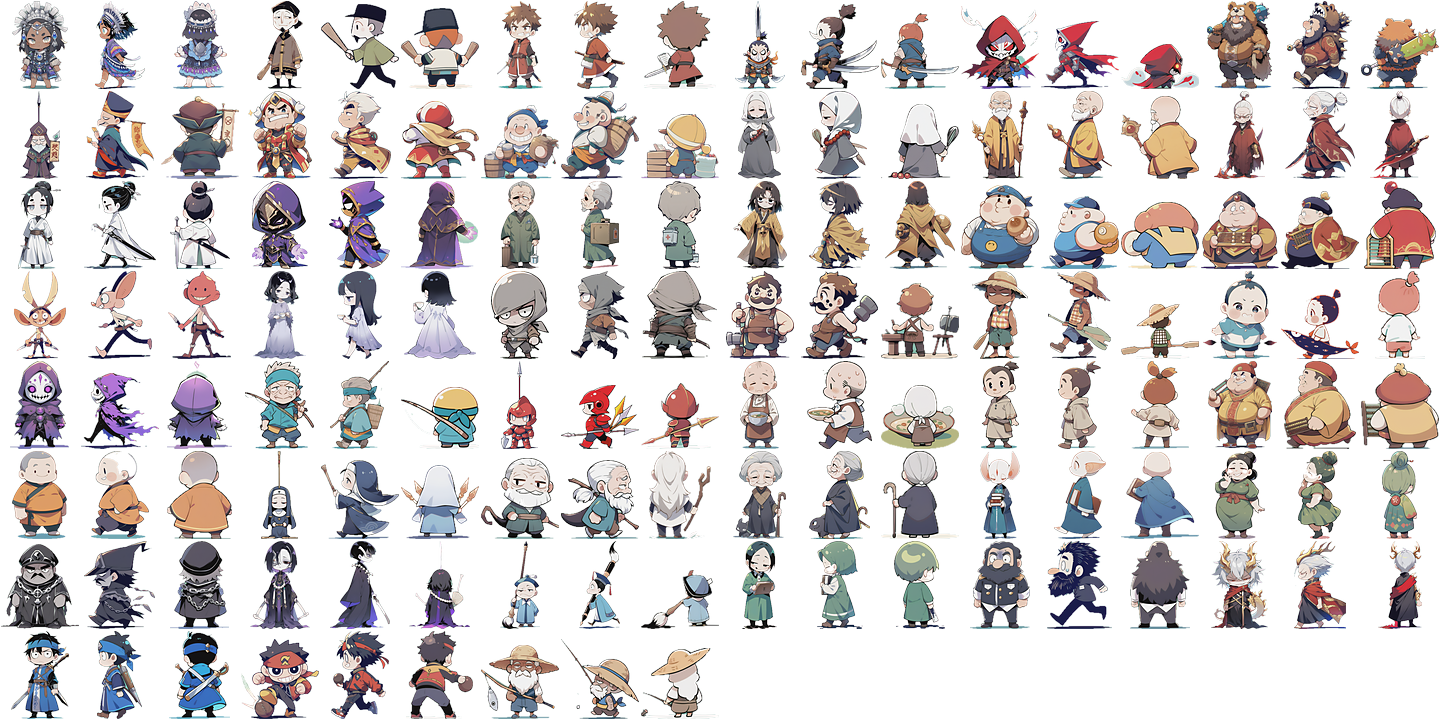
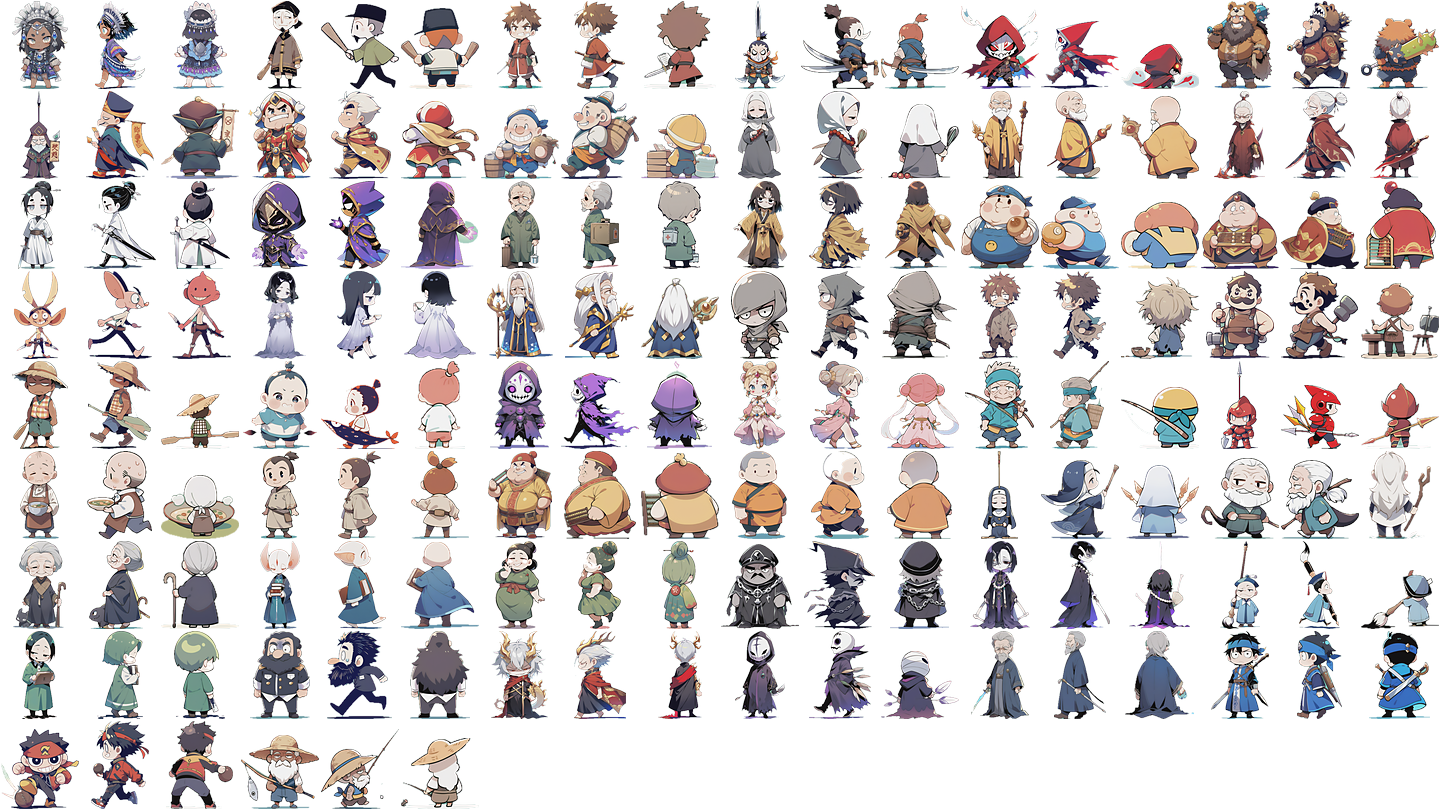
Painted side views all face the same way
ai_chibi.py turns every side view to face right (the back of a chibi's head outweighs the face, which tells which
way it looks); the map mirrors them to walk the right way.

diff --git a/js/ai_art.js b/js/ai_art.js
@@ -1,2 +1,2 @@
 // Made by tools/ai_pack.py from the AI-painted art: rects into assets/ai/. Do not edit by hand.
-export const AI = {"acolyte":{"p":[0,0]},"aman":{"p":[128,0],"s":[0,0],"c":[0,0]},"ape":{"p":[256,0]},"archer":{"p":[384,0],"s":[192,0]},"assassin":{"p":[512,0],"s":[384,0]},"baixian":{"p":[640,0],"c":[240,0]},"bamboosprite":{"p":[768,0]},"bambooviper":{"p":[896,0],"s":[576,0]},"bellfire":{"p":[1024,0]},"bellguard":{"p":[1152,0]},"bellpuppet":{"p":[1280,0]},"blackbone":{"p":[1408,0],"s":[768,0]},"blackdaoist":{"p":[1536,0]},"bloodbat":{"p":[0,128],"s":[960,0]},"bloodthug":{"p":[128,128],"s":[0,88]},"bloodwolf":{"p":[256,128],"s":[192,88]},"bronzejiangshi":{"p":[384,128],"s":[384,88]},"bronzeman":{"p":[512,128],"s":[576,88]},"cavebat":{"p":[640,128],"s":[768,88]},"centipede":{"p":[768,128],"s":[960,88]},"chengyuanzhi":{"p":[896,128]},"chutiankuo":{"p":[1024,128],"s":[0,176],"c":[480,0]},"coldpool":{"p":[1152,128],"s":[192,176]},"crow":{"p":[1280,128]},"cudgeler":{"p":[1408,128],"s":[384,176]},"daoba":{"p":[1536,128],"s":[576,176],"c":[720,0]},"daoist":{"p":[0,256],"s":[768,176]},"deadwood":{"p":[128,256],"s":[960,176]},"drowned":{"p":[256,256],"s":[0,264]},"dummy":{"p":[384,256]},"erin":{"p":[512,256]},"firehornet":{"p":[640,256]},"fox":{"p":[768,256]},"frostwolf":{"p":[896,256],"s":[192,264]},"ghosthornet":{"p":[1024,256],"s":[384,264]},"glowcap":{"p":[1152,256]},"goldbone":{"p":[1280,256]},"goldcentipede":{"p":[1408,256],"s":[576,264]},"goldmonkey":{"p":[1536,256],"s":[768,264]},"goldsnake":{"p":[0,384]},"greatbell":{"p":[128,384]},"greywolf":{"p":[256,384],"s":[960,264]},"guanyu":{"p":[384,384]},"guimian":{"p":[512,384],"s":[0,352],"c":[960,0]},"heixiong":{"p":[640,384],"c":[1200,0]},"huaxiong":{"p":[768,384]},"hubanxian":{"p":[896,384],"s":[192,352],"c":[0,90]},"huotianxia":{"p":[1024,384],"s":[384,352],"c":[240,90]},"icebat":{"p":[1152,384]},"iceboar":{"p":[1280,384]},"icejiangshi":{"p":[1408,384]},"inkscorpion":{"p":[1536,384],"s":[576,352]},"inkspirit":{"p":[0,512],"s":[768,352]},"ironboar":{"p":[128,512],"s":[960,352]},"ironcrab":{"p":[256,512]},"irondummy":{"p":[384,512]},"ironmonk":{"p":[512,512],"s":[0,440]},"jadetoad":{"p":[640,512]},"jasper":{"p":[768,512]},"jeff":{"p":[896,512]},"jiabafang":{"p":[1024,512],"s":[192,440],"c":[480,90]},"jiangshi":{"p":[1152,512]},"jiao":{"p":[1280,512]},"jiling":{"p":[1408,512]},"jingci":{"p":[1536,512],"c":[720,90]},"josh":{"p":[0,640]},"kuchan":{"p":[128,640],"s":[384,440],"c":[960,90]},"lackey":{"p":[256,640],"s":[576,440]},"lavacrab":{"p":[384,640]},"lavascorpion":{"p":[512,640]},"lavawolf":{"p":[640,640]},"lihanshan":{"p":[768,640],"s":[768,440],"c":[1200,90]},"lion":{"p":[896,640]},"littlejiangshi":{"p":[1024,640],"s":[960,440]},"liuhanyan":{"p":[1152,640],"c":[0,180]},"lotusghost":{"p":[1280,640]},"lubu":{"p":[1408,640]},"masked":{"p":[1536,640],"s":[0,528],"c":[240,180]},"mojide":{"p":[0,768],"s":[192,528],"c":[480,180]},"mountainmonkey":{"p":[128,768],"s":[384,528]},"mowuya":{"p":[256,768],"s":[576,528],"c":[720,180]},"mudspirit":{"p":[384,768]},"netherarcher":{"p":[512,768],"s":[768,528]},"netherassassin":{"p":[640,768]},"netherflame":{"p":[768,768],"s":[960,528]},"niubaobao":{"p":[896,768],"s":[0,616],"c":[960,180]},"papereffigy":{"p":[1024,768]},"pirate":{"p":[1152,768]},"qianwanli":{"p":[1280,768],"c":[1200,180]},"redpaper":{"p":[1408,768]},"redsnake":{"p":[1536,768],"s":[192,616]},"rivercrab":{"p":[0,896],"s":[384,616]},"roguemonk":{"p":[128,896]},"sandscorpion":{"p":[256,896],"s":[576,616]},"shanxiao":{"p":[384,896]},"shouhou":{"p":[512,896],"s":[768,616],"c":[0,270]},"skeleton":{"p":[640,896],"s":[960,616]},"snowmonkey":{"p":[768,896]},"snowsprite":{"p":[896,896]},"stonetoad":{"p":[1024,896],"s":[0,704]},"suxiaowan":{"p":[1152,896],"s":[192,704],"c":[240,270]},"sx_archer":{"p":[1280,896]},"sx_bl_palm":{"p":[1408,896],"s":[384,704]},"sx_crossbow":{"p":[1536,896],"s":[576,704]},"sx_cy_nun":{"p":[0,1024],"s":[768,704]},"sx_daoist":{"p":[128,1024],"s":[960,704]},"sx_disciple":{"p":[256,1024],"s":[0,792]},"sx_founder":{"p":[384,1024]},"sx_grandmaster":{"p":[512,1024]},"sx_hf_club":{"p":[640,1024]},"sx_hidden":{"p":[768,1024],"s":[192,792]},"sx_hj_sword":{"p":[896,1024]},"sx_inner":{"p":[1024,1024],"s":[384,792]},"sx_lm_saber":{"p":[1152,1024],"s":[576,792]},"sx_master":{"p":[1280,1024],"s":[768,792]},"sx_phantom":{"p":[1408,1024],"s":[960,792]},"sx_physician":{"p":[1536,1024]},"sx_physician_f":{"p":[0,1152]},"sx_poison":{"p":[128,1152],"s":[0,880]},"sx_qf_monk":{"p":[256,1152],"s":[192,880]},"sx_qin":{"p":[384,1152]},"sx_qin_f":{"p":[512,1152],"s":[384,880]},"sx_saber":{"p":[640,1152],"s":[576,880]},"sx_scholar":{"p":[768,1152]},"sx_scout":{"p":[896,1152],"s":[768,880]},"sx_smith":{"p":[1024,1152],"s":[960,880]},"sx_spear":{"p":[1152,1152],"s":[0,968]},"sx_starbow":{"p":[1280,1152],"s":[192,968]},"sx_strategist":{"p":[1408,1152],"s":[384,968]},"sx_sword":{"p":[1536,1152],"s":[576,968]},"sx_swordform":{"p":[0,1280]},"sx_teller":{"p":[128,1280]},"sx_thief":{"p":[256,1280],"s":[768,968]},"sx_xd_blood":{"p":[384,1280],"s":[960,968]},"sx_ym_assassin":{"p":[512,1280],"s":[0,1056]},"sx_yy_tiger":{"p":[640,1280],"s":[192,1056]},"sx_zf_chain":{"p":[768,1280],"s":[384,1056]},"tf_bandit":{"p":[896,1280],"s":[576,1056],"c":[480,270]},"tf_beggar":{"p":[1024,1280],"s":[768,1056]},"tf_blacksmith":{"p":[1152,1280],"s":[960,1056],"c":[720,270]},"tf_boatman":{"p":[1280,1280],"s":[0,1144],"c":[960,270]},"tf_child":{"p":[1408,1280],"s":[192,1144],"c":[1200,270]},"tf_cultist":{"p":[1536,1280],"s":[384,1144],"c":[0,360]},"tf_dancer":{"p":[0,1408],"s":[576,1144]},"tf_fisherman":{"p":[128,1408],"s":[768,1144],"c":[240,360]},"tf_guard":{"p":[256,1408],"s":[960,1144],"c":[480,360]},"tf_innkeeper":{"p":[384,1408],"s":[0,1232],"c":[720,360]},"tf_man":{"p":[512,1408],"c":[960,360]},"tf_merchant":{"p":[640,1408],"c":[1200,360]},"tf_monk":{"p":[768,1408],"s":[192,1232],"c":[0,450]},"tf_nun":{"p":[896,1408],"s":[384,1232],"c":[240,450]},"tf_oldman":{"p":[1024,1408],"s":[576,1232],"c":[480,450]},"tf_oldwoman":{"p":[1152,1408],"s":[768,1232],"c":[720,450]},"tf_scholar":{"p":[1280,1408],"s":[960,1232],"c":[960,450]},"tf_woman":{"p":[1408,1408],"s":[0,1320],"c":[1200,450]},"thundersprite":{"p":[1536,1408],"s":[192,1320]},"tiewusi":{"p":[0,1536],"s":[384,1320],"c":[0,540]},"tiger":{"p":[128,1536]},"tigerhornet":{"p":[256,1536]},"toad":{"p":[384,1536]},"toadstool":{"p":[512,1536],"s":[576,1320]},"treesprite":{"p":[640,1536],"s":[768,1320]},"tuqianqiu":{"p":[768,1536],"s":[960,1320],"c":[240,540]},"vajraguardian":{"p":[896,1536],"s":[0,1408]},"wenchou":{"p":[1024,1536]},"wenduizhang":{"p":[1152,1536],"c":[480,540]},"wenruyu":{"p":[1280,1536],"s":[192,1408],"c":[720,540]},"wildboar":{"p":[1408,1536],"s":[384,1408]},"windsprite":{"p":[1536,1536],"s":[576,1408]},"wisp":{"p":[0,1664],"s":[768,1408]},"wudadan":{"p":[128,1664],"c":[960,540]},"xiahoudun":{"p":[256,1664]},"xiaolian":{"p":[384,1664]},"xiaotian":{"p":[512,1664],"s":[960,1408],"c":[1200,540]},"xiaowuying":{"p":[640,1664],"s":[0,1496]},"yanliang":{"p":[768,1664]},"yichangfeng":{"p":[896,1664]},"yirui":{"p":[1024,1664],"s":[192,1496],"c":[0,630]},"yishuo":{"p":[1152,1664],"s":[384,1496],"c":[240,630]},"yuweng":{"p":[1280,1664],"c":[480,630]},"zhangbao":{"p":[1408,1664]},"zhangliao":{"p":[1536,1664]}};
+export const AI = {"acolyte":{"p":[0,0]},"aman":{"p":[128,0],"s":[0,0],"c":[0,0]},"ape":{"p":[256,0]},"archer":{"p":[384,0],"s":[192,0]},"assassin":{"p":[512,0],"s":[384,0]},"baixian":{"p":[640,0],"c":[240,0]},"bamboosprite":{"p":[768,0]},"bambooviper":{"p":[896,0],"s":[576,0]},"bellfire":{"p":[1024,0]},"bellguard":{"p":[1152,0]},"bellpuppet":{"p":[1280,0]},"blackbone":{"p":[1408,0],"s":[768,0]},"blackdaoist":{"p":[1536,0]},"bloodbat":{"p":[0,128],"s":[960,0]},"bloodthug":{"p":[128,128],"s":[0,88]},"bloodwolf":{"p":[256,128],"s":[192,88]},"bronzejiangshi":{"p":[384,128],"s":[384,88]},"bronzeman":{"p":[512,128],"s":[576,88]},"cavebat":{"p":[640,128],"s":[768,88]},"centipede":{"p":[768,128],"s":[960,88]},"chengyuanzhi":{"p":[896,128]},"chutiankuo":{"p":[1024,128],"s":[0,176],"c":[480,0]},"coldpool":{"p":[1152,128],"s":[192,176]},"crow":{"p":[1280,128]},"cudgeler":{"p":[1408,128],"s":[384,176]},"daoba":{"p":[1536,128],"s":[576,176],"c":[720,0]},"daoist":{"p":[0,256],"s":[768,176]},"deadwood":{"p":[128,256],"s":[960,176]},"drowned":{"p":[256,256],"s":[0,264]},"dummy":{"p":[384,256]},"erin":{"p":[512,256]},"firehornet":{"p":[640,256]},"fox":{"p":[768,256]},"frostwolf":{"p":[896,256],"s":[192,264]},"ghosthornet":{"p":[1024,256],"s":[384,264]},"glowcap":{"p":[1152,256]},"goldbone":{"p":[1280,256]},"goldcentipede":{"p":[1408,256],"s":[576,264]},"goldmonkey":{"p":[1536,256],"s":[768,264]},"goldsnake":{"p":[0,384]},"greatbell":{"p":[128,384]},"greywolf":{"p":[256,384],"s":[960,264]},"guanyu":{"p":[384,384]},"guimian":{"p":[512,384],"s":[0,352],"c":[960,0]},"heixiong":{"p":[640,384],"c":[1200,0]},"huaxiong":{"p":[768,384]},"hubanxian":{"p":[896,384],"s":[192,352],"c":[0,90]},"huotianxia":{"p":[1024,384],"s":[384,352],"c":[240,90]},"icebat":{"p":[1152,384]},"iceboar":{"p":[1280,384]},"icejiangshi":{"p":[1408,384]},"inkscorpion":{"p":[1536,384],"s":[576,352]},"inkspirit":{"p":[0,512],"s":[768,352]},"ironboar":{"p":[128,512],"s":[960,352]},"ironcrab":{"p":[256,512]},"irondummy":{"p":[384,512]},"ironmonk":{"p":[512,512],"s":[0,440]},"jadetoad":{"p":[640,512]},"jasper":{"p":[768,512]},"jeff":{"p":[896,512]},"jiabafang":{"p":[1024,512],"s":[192,440],"c":[480,90]},"jiangshi":{"p":[1152,512]},"jiao":{"p":[1280,512]},"jiling":{"p":[1408,512]},"jingci":{"p":[1536,512],"c":[720,90]},"josh":{"p":[0,640]},"kuchan":{"p":[128,640],"s":[384,440],"c":[960,90]},"lackey":{"p":[256,640],"s":[576,440]},"lavacrab":{"p":[384,640]},"lavascorpion":{"p":[512,640]},"lavawolf":{"p":[640,640]},"lihanshan":{"p":[768,640],"s":[768,440],"c":[1200,90]},"lion":{"p":[896,640]},"littlejiangshi":{"p":[1024,640],"s":[960,440]},"liuhanyan":{"p":[1152,640],"c":[0,180]},"lotusghost":{"p":[1280,640]},"lubu":{"p":[1408,640]},"masked":{"p":[1536,640],"s":[0,528],"c":[240,180]},"mojide":{"p":[0,768],"s":[192,528],"c":[480,180]},"mountainmonkey":{"p":[128,768],"s":[384,528]},"mowuya":{"p":[256,768],"s":[576,528],"c":[720,180]},"mudspirit":{"p":[384,768]},"netherarcher":{"p":[512,768],"s":[768,528]},"netherassassin":{"p":[640,768]},"netherflame":{"p":[768,768],"s":[960,528]},"niubaobao":{"p":[896,768],"s":[0,616],"c":[960,180]},"papereffigy":{"p":[1024,768]},"pirate":{"p":[1152,768]},"qianwanli":{"p":[1280,768],"c":[1200,180]},"redpaper":{"p":[1408,768]},"redsnake":{"p":[1536,768],"s":[192,616]},"rivercrab":{"p":[0,896],"s":[384,616]},"roguemonk":{"p":[128,896]},"sandscorpion":{"p":[256,896],"s":[576,616]},"shanxiao":{"p":[384,896]},"shouhou":{"p":[512,896],"s":[768,616],"c":[0,270]},"skeleton":{"p":[640,896],"s":[960,616]},"snowmonkey":{"p":[768,896]},"snowsprite":{"p":[896,896]},"stonetoad":{"p":[1024,896],"s":[0,704]},"suxiaowan":{"p":[1152,896],"s":[192,704],"c":[240,270]},"sx_archer":{"p":[1280,896]},"sx_bl_palm":{"p":[1408,896],"s":[384,704]},"sx_crossbow":{"p":[1536,896],"s":[576,704]},"sx_cy_nun":{"p":[0,1024],"s":[768,704]},"sx_daoist":{"p":[128,1024],"s":[960,704]},"sx_disciple":{"p":[256,1024],"s":[0,792]},"sx_founder":{"p":[384,1024]},"sx_grandmaster":{"p":[512,1024],"c":[480,270]},"sx_hf_club":{"p":[640,1024]},"sx_hidden":{"p":[768,1024],"s":[192,792]},"sx_hj_sword":{"p":[896,1024]},"sx_inner":{"p":[1024,1024],"s":[384,792]},"sx_lm_saber":{"p":[1152,1024],"s":[576,792]},"sx_master":{"p":[1280,1024],"s":[768,792]},"sx_phantom":{"p":[1408,1024],"s":[960,792]},"sx_physician":{"p":[1536,1024]},"sx_physician_f":{"p":[0,1152]},"sx_poison":{"p":[128,1152],"s":[0,880]},"sx_qf_monk":{"p":[256,1152],"s":[192,880]},"sx_qin":{"p":[384,1152]},"sx_qin_f":{"p":[512,1152],"s":[384,880]},"sx_saber":{"p":[640,1152],"s":[576,880]},"sx_scholar":{"p":[768,1152]},"sx_scout":{"p":[896,1152],"s":[768,880]},"sx_smith":{"p":[1024,1152],"s":[960,880]},"sx_spear":{"p":[1152,1152],"s":[0,968]},"sx_starbow":{"p":[1280,1152],"s":[192,968]},"sx_strategist":{"p":[1408,1152],"s":[384,968]},"sx_sword":{"p":[1536,1152],"s":[576,968]},"sx_swordform":{"p":[0,1280]},"sx_teller":{"p":[128,1280]},"sx_thief":{"p":[256,1280],"s":[768,968]},"sx_xd_blood":{"p":[384,1280],"s":[960,968]},"sx_ym_assassin":{"p":[512,1280],"s":[0,1056]},"sx_yy_tiger":{"p":[640,1280],"s":[192,1056]},"sx_zf_chain":{"p":[768,1280],"s":[384,1056]},"tf_bandit":{"p":[896,1280],"s":[576,1056],"c":[720,270]},"tf_beggar":{"p":[1024,1280],"s":[768,1056],"c":[960,270]},"tf_blacksmith":{"p":[1152,1280],"s":[960,1056],"c":[1200,270]},"tf_boatman":{"p":[1280,1280],"s":[0,1144],"c":[0,360]},"tf_child":{"p":[1408,1280],"s":[192,1144],"c":[240,360]},"tf_cultist":{"p":[1536,1280],"s":[384,1144],"c":[480,360]},"tf_dancer":{"p":[0,1408],"s":[576,1144],"c":[720,360]},"tf_fisherman":{"p":[128,1408],"s":[768,1144],"c":[960,360]},"tf_guard":{"p":[256,1408],"s":[960,1144],"c":[1200,360]},"tf_innkeeper":{"p":[384,1408],"s":[0,1232],"c":[0,450]},"tf_man":{"p":[512,1408],"c":[240,450]},"tf_merchant":{"p":[640,1408],"c":[480,450]},"tf_monk":{"p":[768,1408],"s":[192,1232],"c":[720,450]},"tf_nun":{"p":[896,1408],"s":[384,1232],"c":[960,450]},"tf_oldman":{"p":[1024,1408],"s":[576,1232],"c":[1200,450]},"tf_oldwoman":{"p":[1152,1408],"s":[768,1232],"c":[0,540]},"tf_scholar":{"p":[1280,1408],"s":[960,1232],"c":[240,540]},"tf_woman":{"p":[1408,1408],"s":[0,1320],"c":[480,540]},"thundersprite":{"p":[1536,1408],"s":[192,1320]},"tiewusi":{"p":[0,1536],"s":[384,1320],"c":[720,540]},"tiger":{"p":[128,1536]},"tigerhornet":{"p":[256,1536]},"toad":{"p":[384,1536]},"toadstool":{"p":[512,1536],"s":[576,1320]},"treesprite":{"p":[640,1536],"s":[768,1320]},"tuqianqiu":{"p":[768,1536],"s":[960,1320],"c":[960,540]},"vajraguardian":{"p":[896,1536],"s":[0,1408]},"wenchou":{"p":[1024,1536]},"wenduizhang":{"p":[1152,1536],"c":[1200,540]},"wenruyu":{"p":[1280,1536],"s":[192,1408],"c":[0,630]},"wildboar":{"p":[1408,1536],"s":[384,1408]},"windsprite":{"p":[1536,1536],"s":[576,1408]},"wisp":{"p":[0,1664],"s":[768,1408]},"wudadan":{"p":[128,1664],"c":[240,630]},"xiahoudun":{"p":[256,1664]},"xiaolian":{"p":[384,1664]},"xiaotian":{"p":[512,1664],"s":[960,1408],"c":[480,630]},"xiaowuying":{"p":[640,1664],"s":[0,1496],"c":[720,630]},"yanliang":{"p":[768,1664]},"yichangfeng":{"p":[896,1664],"c":[960,630]},"yirui":{"p":[1024,1664],"s":[192,1496],"c":[1200,630]},"yishuo":{"p":[1152,1664],"s":[384,1496],"c":[0,720]},"yuweng":{"p":[1280,1664],"c":[240,720]},"zhangbao":{"p":[1408,1664]},"zhangliao":{"p":[1536,1664]}};

diff --git a/js/ui/sprites.js b/js/ui/sprites.js
@@ -40,7 +40,9 @@ function aiFrame(id, view, breath = false) {
   const key = `ai|${id}|${view}|${breath}`;
   if (cache.has(key)) return cache.get(key);
   const chibi = aiChi && AI[id].c, [x, y] = chibi ? AI[id].c : AI[id].s, w = chibi ? CW : AW, h = chibi ? CH : AH, c = mk(w, h);
-  c.getContext('2d').drawImage(chibi ? aiChi : aiSpr, x + view * w, y, w, h, 0, breath ? 1 : 0, w, breath ? h - 1 : h);
+  const g = c.getContext('2d');
+  if (chibi && view === 1) { g.translate(w, 0); g.scale(-1, 1); }   // painted side views face right; the map wants left
+  g.drawImage(chibi ? aiChi : aiSpr, x + view * w, y, w, h, 0, breath ? 1 : 0, w, breath ? h - 1 : h);
   const mon = ART[id] && ART[id].k === 'm';
   c.res = chibi ? (mon ? CHI_MON_RES : CHI_RES) : mon ? AI_MON_RES : AI_RES;
   c.smooth = !!chibi;

diff --git a/tools/ai_chibi.py b/tools/ai_chibi.py
@@ -4,7 +4,7 @@ down to sprite size.
 
     C:/sdenv/Scripts/python tools/ai_chibi.py [ids|all] [paint|cut|both] [seed]
         art/chibi/<id>_<view>.png    the paintings (832 x 1216)
-        art/cut/<id>_c<view>.png     the sprites, at most 78 x 88, soft edges
+        art/cut/<id>_c<view>.png     the sprites, at most 78 x 88, soft edges; side views all face right
 
 Work already on disk is skipped, so the run can be stopped and resumed.
 """
@@ -91,11 +91,33 @@ def main():
             cut_one(c)
 
 
+def faces_left(im):
+    """Which way a side view looks. In a chibi's profile the hair at the back of the head outweighs the face, so the
+    head's skin (or, with no skin showing, its whole mass) sits towards the back."""
+    a = np.asarray(im.convert('RGBA')).astype(int)
+    solid = a[:, :, 3] > 128
+    ys = np.where(solid.any(axis=1))[0]
+    top = solid.copy()
+    top[int(ys[0] + (ys[-1] - ys[0]) * 0.42):] = False
+    xs = np.where(top)[1]
+    mid = (xs.min() + xs.max()) / 2
+    R, G, B = a[:, :, 0], a[:, :, 1], a[:, :, 2]
+    skin = top & (R > 170) & (R > G + 8) & (G > B + 4) & (R - B > 35)
+    x = np.where(skin)[1].mean() if skin.sum() > 40 else xs.mean()
+    return x >= mid
+
+
 def cut_one(c):
     for v in VIEWS:
         src = os.path.join(RAW, f'{c}_{v}.png')
         if os.path.exists(src):
-            im = cut(Image.open(src))
+            try:
+                im = cut(Image.open(src))
+            except OSError:   # cut off while being written: paint it again
+                os.remove(src)
+                continue
+            if im and v == 'side' and faces_left(im):   # every side view faces right
+                im = im.transpose(Image.FLIP_LEFT_RIGHT)
             if im:
                 im.save(os.path.join(OUT, f'{c}_c{v}.png'))
 
